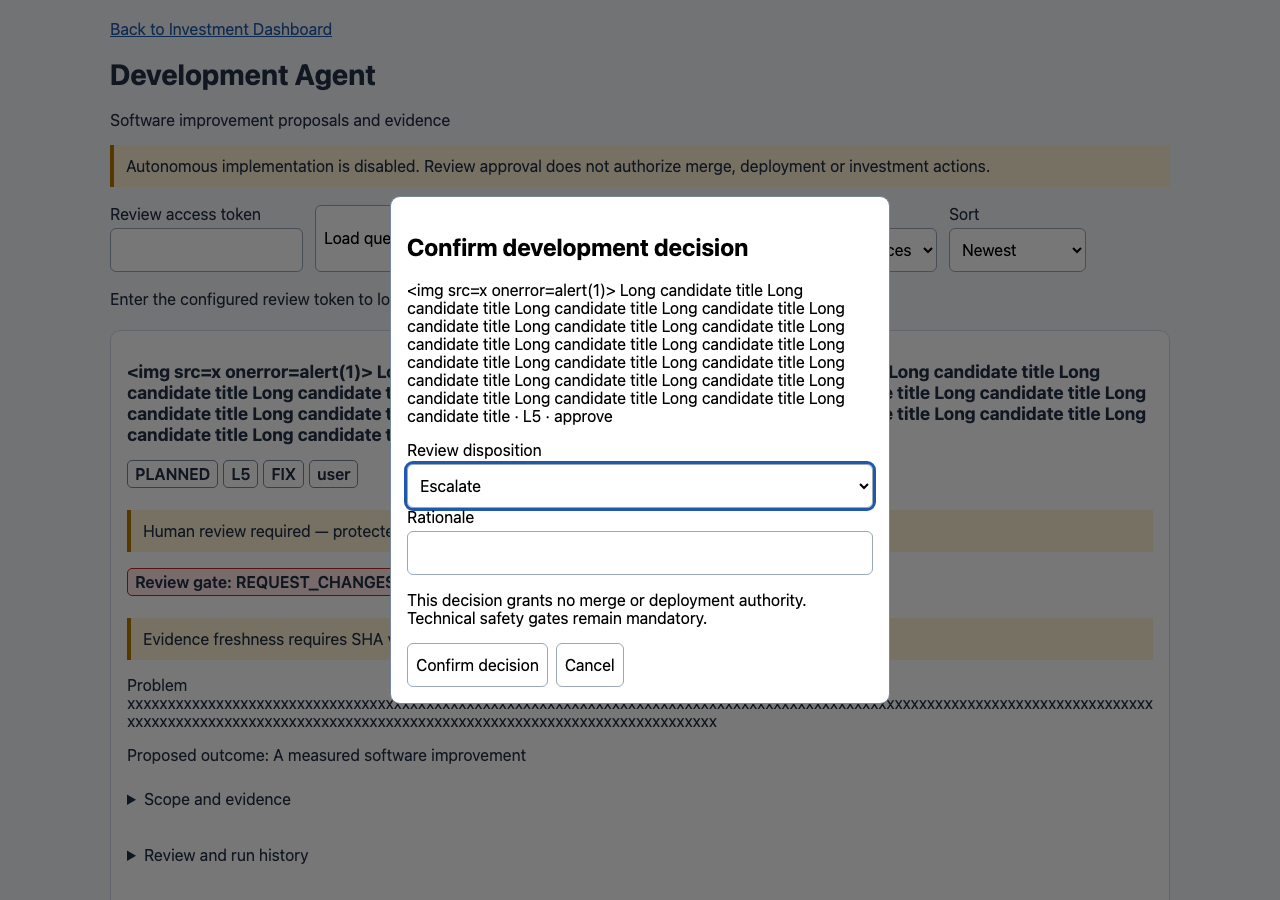
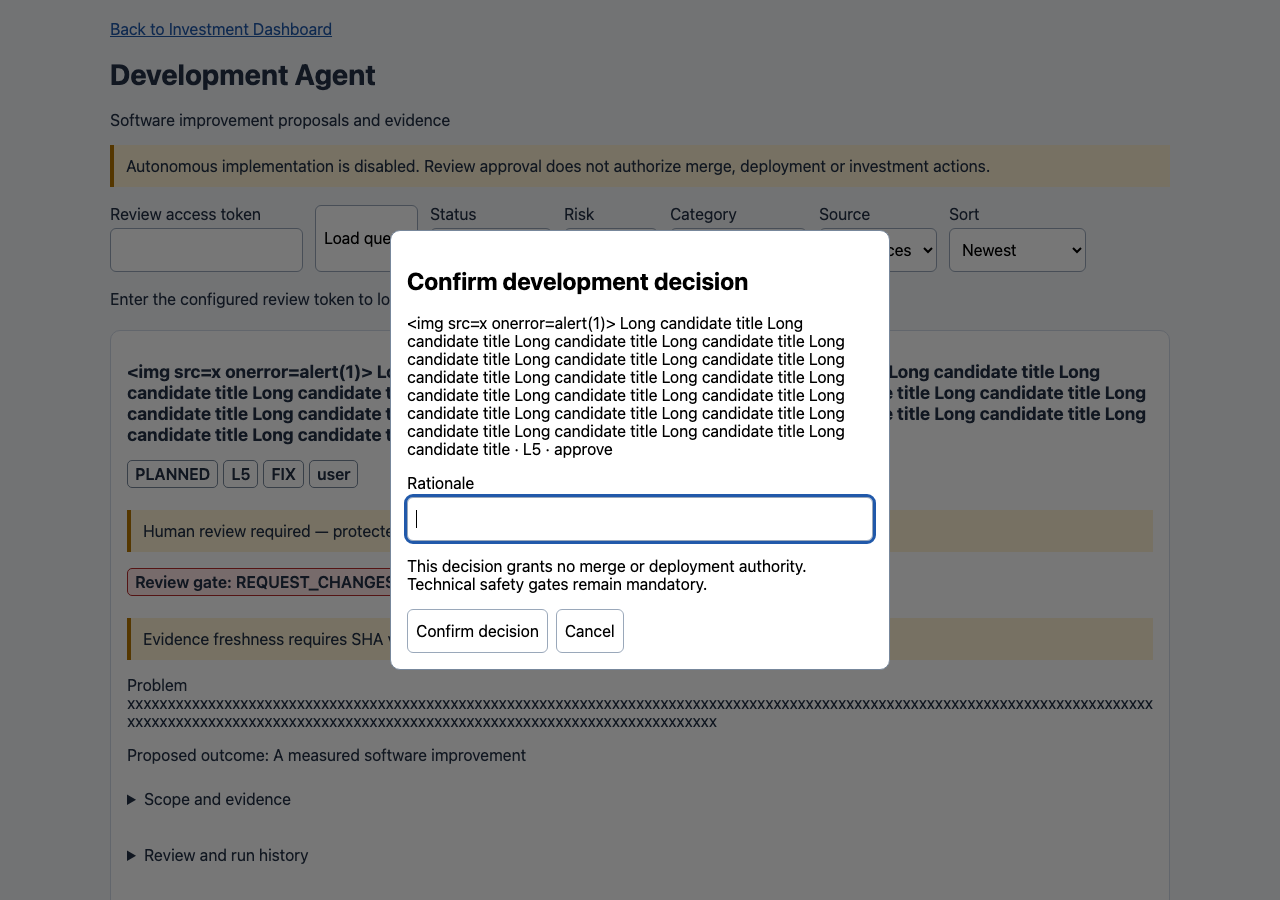
Keep review-only controls hidden during candidate approval

Changed region(s): [[0.2812, 0.2178, 0.7188, 0.8089]]

diff --git a/dev_agent/dashboard.py b/dev_agent/dashboard.py
@@ -69,7 +69,7 @@ def handle(handler, path, mutation=False):
 HTML = r'''<!doctype html>
 <html lang="en"><head><meta charset="utf-8"><meta name="viewport" content="width=device-width, initial-scale=1"><title>Development Agent</title>
 <style>
-*{box-sizing:border-box}body{margin:0;background:#f4f6f9;color:#243246;font:16px system-ui,sans-serif}main{max-width:1100px;margin:auto;padding:20px}a{color:#2159aa}h1{font-size:1.8rem}.notice{border-left:4px solid #b77500;padding:12px;background:#fff3d4}.controls{display:flex;gap:12px;flex-wrap:wrap;margin:18px 0}input,select,button{min-height:44px;max-width:100%;font:inherit;padding:8px;border:1px solid #9aa8ba;border-radius:6px}button{cursor:pointer;background:#fff}button:focus-visible,input:focus-visible,select:focus-visible,summary:focus-visible{outline:3px solid #2159aa}label{display:flex;flex-direction:column;gap:5px;min-width:0}#queue{display:grid;grid-template-columns:repeat(auto-fit,minmax(min(100%,320px),1fr));gap:16px}article{background:white;border:1px solid #d3dbe7;border-radius:10px;padding:16px;min-width:0;overflow-wrap:anywhere}article h2{font-size:1.1rem}.badge{display:inline-block;border:1px solid #77879b;padding:4px 7px;margin:0 5px 6px 0;border-radius:5px;font-weight:600}.warning{background:#fff3d4;border-color:#b77500}.failed{background:#ffe5e5;border-color:#b52b2b}details{margin:12px 0}summary{cursor:pointer;min-height:44px;padding:10px 0}pre{white-space:pre-wrap;overflow-wrap:anywhere;font-size:.85rem}dialog{max-width:min(95vw,500px);border:1px solid #77879b;border-radius:10px}dialog::backdrop{background:#0008}.actions{display:flex;flex-wrap:wrap;gap:8px}#message{min-height:24px} @media(max-width:430px){main{padding:12px}.controls>*{width:100%}article{padding:12px}}
+[hidden]{display:none!important}*{box-sizing:border-box}body{margin:0;background:#f4f6f9;color:#243246;font:16px system-ui,sans-serif}main{max-width:1100px;margin:auto;padding:20px}a{color:#2159aa}h1{font-size:1.8rem}.notice{border-left:4px solid #b77500;padding:12px;background:#fff3d4}.controls{display:flex;gap:12px;flex-wrap:wrap;margin:18px 0}input,select,button{min-height:44px;max-width:100%;font:inherit;padding:8px;border:1px solid #9aa8ba;border-radius:6px}button{cursor:pointer;background:#fff}button:focus-visible,input:focus-visible,select:focus-visible,summary:focus-visible{outline:3px solid #2159aa}label{display:flex;flex-direction:column;gap:5px;min-width:0}#queue{display:grid;grid-template-columns:repeat(auto-fit,minmax(min(100%,320px),1fr));gap:16px}article{background:white;border:1px solid #d3dbe7;border-radius:10px;padding:16px;min-width:0;overflow-wrap:anywhere}article h2{font-size:1.1rem}.badge{display:inline-block;border:1px solid #77879b;padding:4px 7px;margin:0 5px 6px 0;border-radius:5px;font-weight:600}.warning{background:#fff3d4;border-color:#b77500}.failed{background:#ffe5e5;border-color:#b52b2b}details{margin:12px 0}summary{cursor:pointer;min-height:44px;padding:10px 0}pre{white-space:pre-wrap;overflow-wrap:anywhere;font-size:.85rem}dialog{max-width:min(95vw,500px);border:1px solid #77879b;border-radius:10px}dialog::backdrop{background:#0008}.actions{display:flex;flex-wrap:wrap;gap:8px}#message{min-height:24px} @media(max-width:430px){main{padding:12px}.controls>*{width:100%}article{padding:12px}}
 </style></head><body><main><a href="/out/dashboard.html">Back to Investment Dashboard</a><h1>Development Agent</h1>
 <p>Software improvement proposals and evidence</p><p class="notice">Autonomous implementation is disabled. Review approval does not authorize merge, deployment or investment actions.</p>
 <div class="controls"><label>Review access token<input id="access" type="password" autocomplete="off"></label><button id="load">Load queue</button><label>Status<select id="status"><option value="">All statuses</option></select></label><label>Risk<select id="risk"><option value="">All risks</option></select></label><label>Category<select id="category"><option value="">All categories</option></select></label><label>Source<select id="source"><option value="">All sources</option></select></label><label>Sort<select id="sort"><option value="newest">Newest</option><option value="risk">Highest risk</option><option value="value">Highest value</option></select></label></div>
